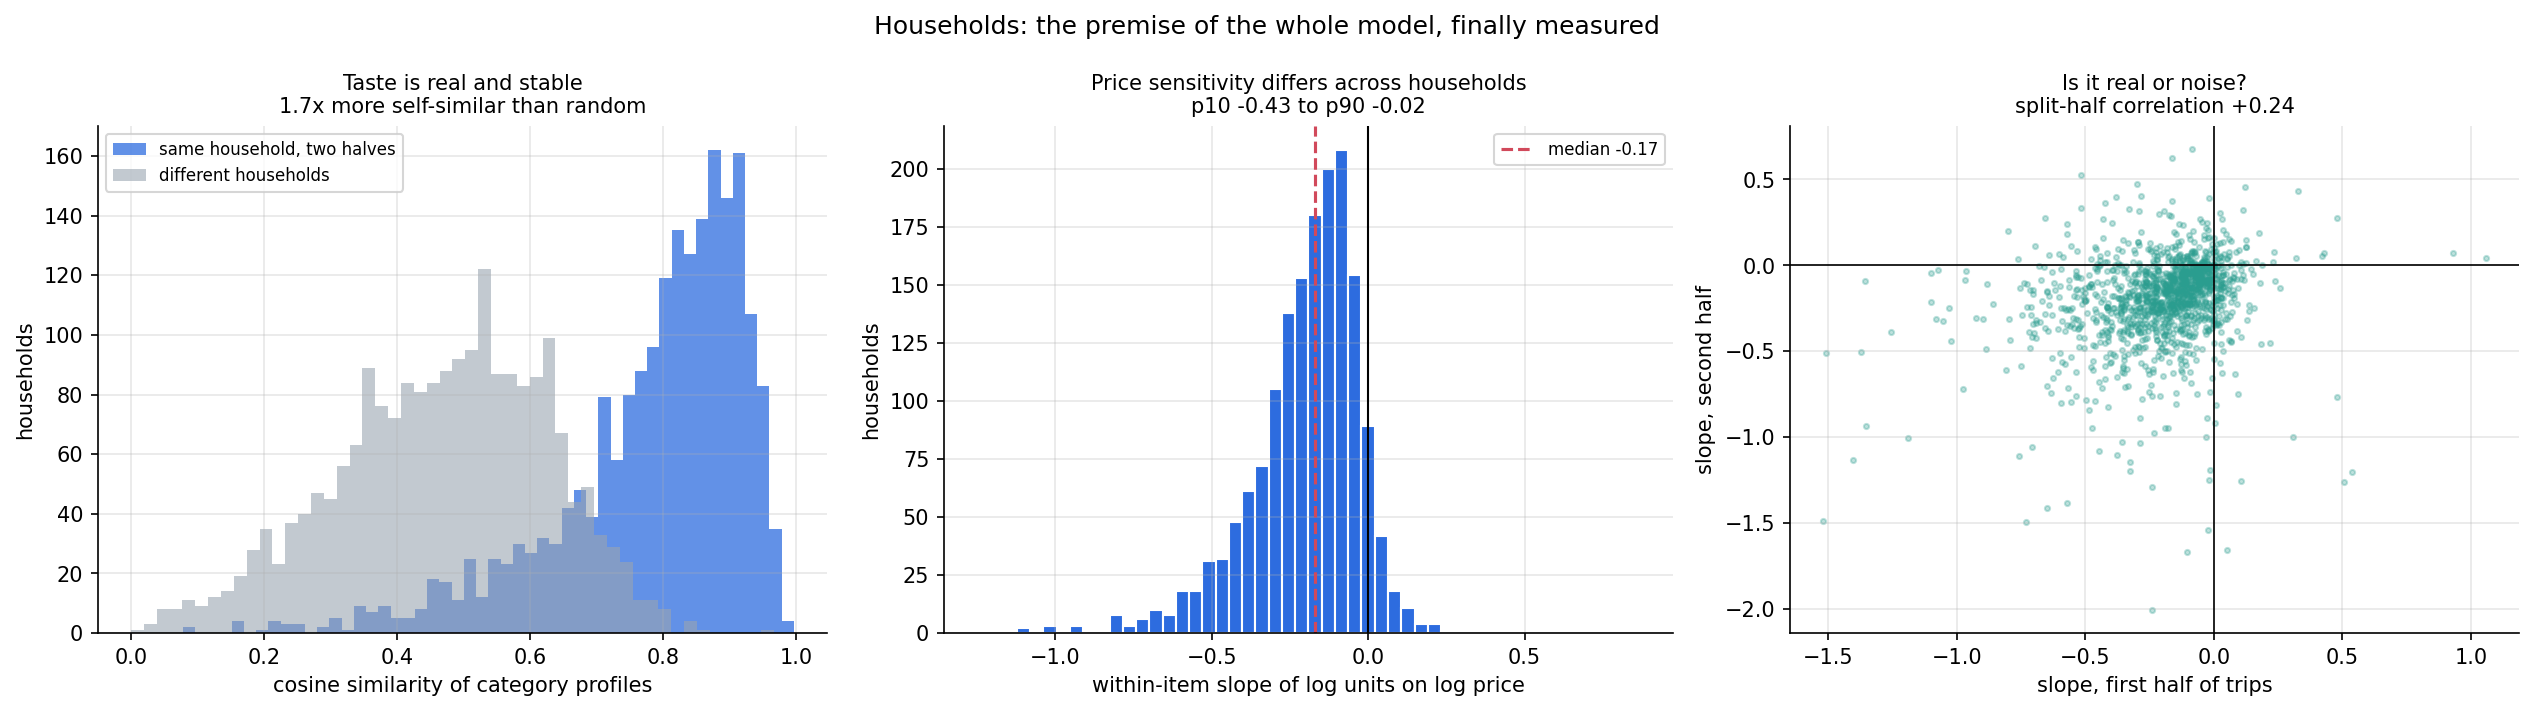
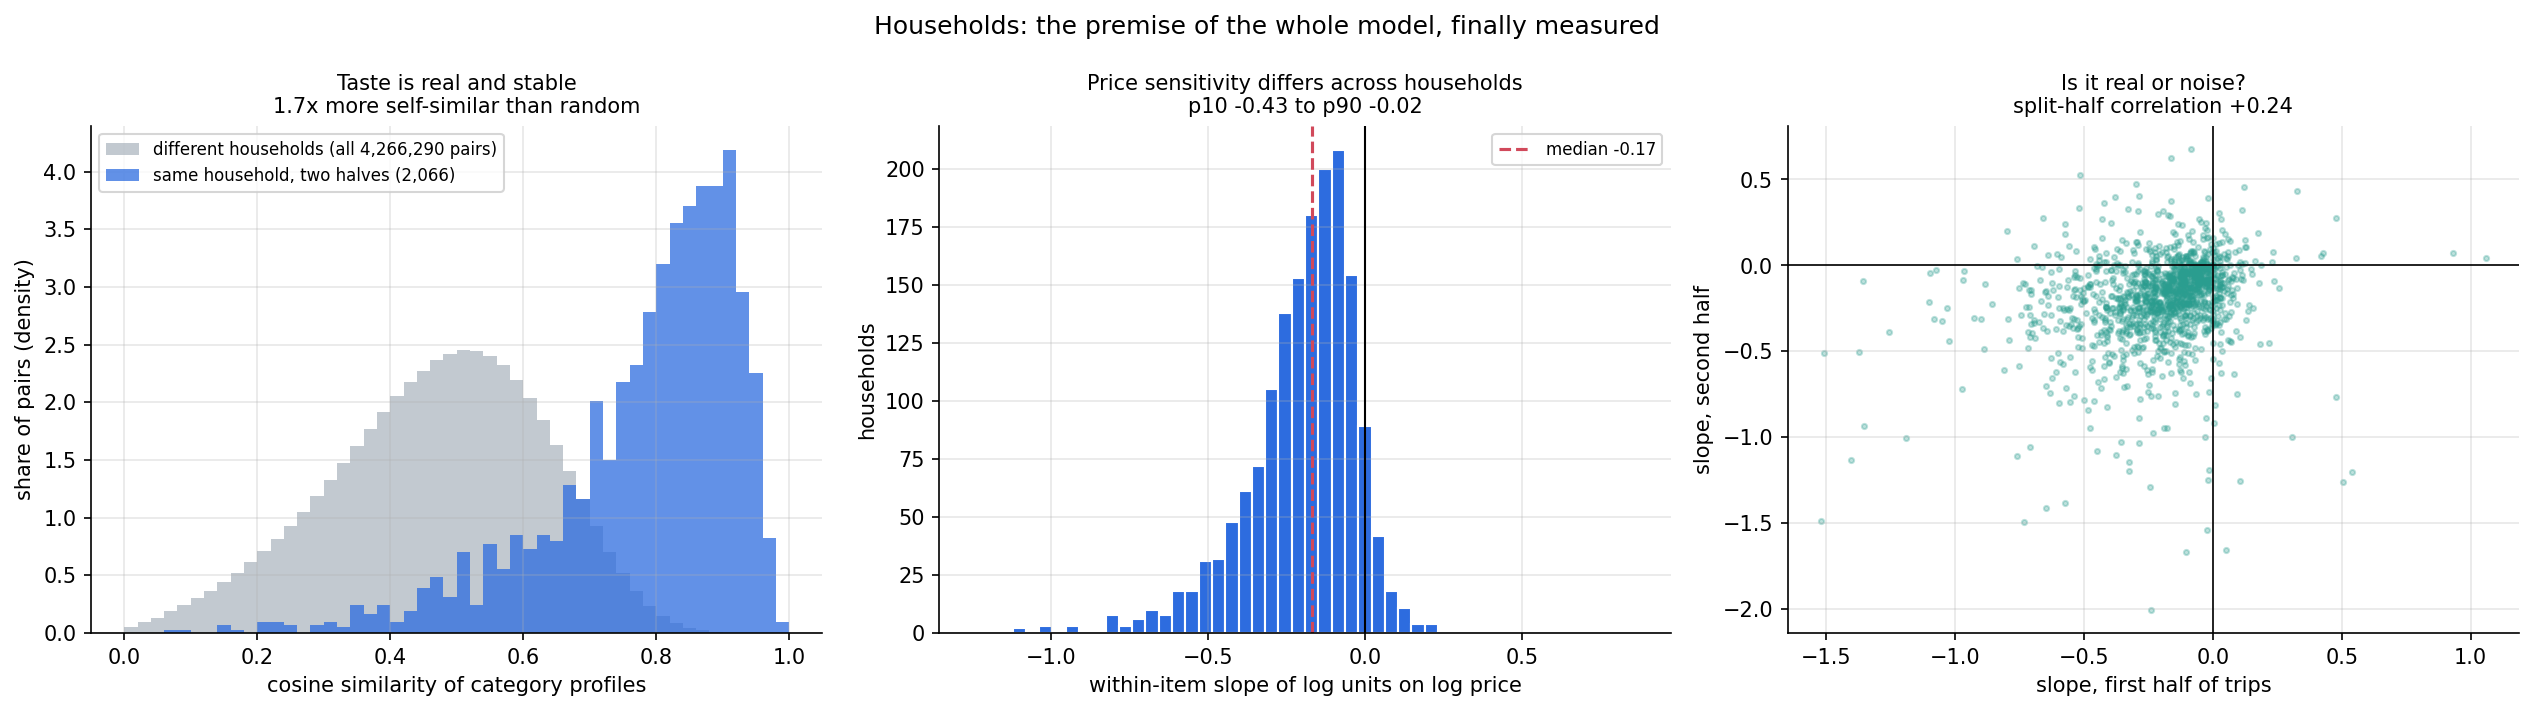
Households: compute the taste baseline exhaustively, and diagnose the slope noise
The stranger baseline in 7.1 was one random pairing of households, so the
reported number depended on the seed -- over 200 seeds the mean ranged 0.4654
to 0.4765 and the ratio 1.645x to 1.684x.  There is no reason to sample when
every pair can be computed: G = P1 @ P2.T holds all 4,266,290 cross-household
pairs, the diagonal holds the self-pairs.  Baseline 0.4710, ratio 1.66x.

"Own beats random" changed meaning as a result -- it now asks whether a
household beats its average against all 2,065 strangers rather than the single
stranger it happened to draw, and 97.6% do.

The two histograms were also drawn with separate bin edges, so grey bars were
5.3% wider than blue ones and the heights were not comparable.  Shared edges
now, and density since one curve holds 2,066 values and the other 4.27M.

Section 7.2 reported a split-half correlation of +0.236 without saying why it
was that low.  Measure it: 18.6% of qualifying rows come from a (household,
item) pair whose price never moved, and 16.3% of pairs have no price variation
at all.  Splitting households by how much price movement they had, the slope sd
falls from 0.226 to 0.129 and the share of positive slopes from 11.5% to 3.5%.
Much of the apparent spread across households is bad measurement, not
difference.

diff --git a/scripts/30_household_eda.py b/scripts/30_household_eda.py
@@ -108,16 +108,25 @@ def main(a):
     P1, P2 = P1[users], P2[users]
     keep = (P1.sum(1) > 0) & (P2.sum(1) > 0)
     P1, P2 = P1[keep], P2[keep]
-    own = (P1 * P2).sum(1)
-    rng = np.random.default_rng(a.seed)
-    perm = rng.permutation(len(P1))
-    other = (P1 * P2[perm]).sum(1)
+    # The comparison baseline used to be ONE random pairing of households, which made
+    # the reported number depend on the seed: over 200 seeds the mean ranged 0.4654 to
+    # 0.4765 and the headline ratio 1.645x to 1.684x.  Small, but there is no reason to
+    # sample -- every household-vs-household pair can simply be computed.  G holds all
+    # of them: G[i, j] is household i's first half against household j's second half.
+    G = P1 @ P2.T
+    n = len(P1)
+    own = np.diag(G).copy()                       # i against itself
+    off = ~np.eye(n, dtype=bool)
+    other = G[off]                                # all n*(n-1) different-household pairs
+    # "does my own past beat a stranger's?" -- averaged over every stranger, not one
+    row_mean_other = (G.sum(1) - np.diag(G)) / (n - 1)
     r["taste"] = {
-        "households": int(len(P1)),
+        "households": int(n),
+        "cross_household_pairs": int(n * (n - 1)),
         "self_similarity_across_time": float(own.mean()),
         "cross_household_similarity": float(other.mean()),
         "ratio": float(own.mean() / max(other.mean(), 1e-9)),
-        "share_self_beats_random": float((own > other).mean()),
+        "share_self_beats_random": float((own > row_mean_other).mean()),
     }
     rt = r["taste"]
     log("")
@@ -153,8 +162,34 @@ def main(a):
         return (agg.xy / agg.xx).rename(None)
 
     s_all = hh_slopes(bk, a.min_obs)
+    # the halves hold about half the purchases each, so they use half the threshold
     s1 = hh_slopes(first, a.min_obs // 2)
     s2 = hh_slopes(second, a.min_obs // 2)
+
+    # How much price movement does a household actually have to learn from?  The
+    # denominator of the slope is sum (logp - mean_hi logp)^2.  When an item's price
+    # never moved for that household, the pair contributes nothing to it, and dividing
+    # by a near-zero denominator turns accidents into large slopes.  Measuring this
+    # explains the modest split-half correlation below.
+    gq = bk[bk.groupby(["user_id", "item_id"]).item_id.transform("size") >= 3].copy()
+    kq = ["user_id", "item_id"]
+    gq["xd"] = gq.lp - gq.groupby(kq).lp.transform("mean")
+    gq["yd"] = gq.lu - gq.groupby(kq).lu.transform("mean")
+    xx = gq.assign(xx=gq.xd ** 2).groupby("user_id").xx.sum()
+    xx = xx[s_all.index]
+    thin, thick = s_all[xx <= xx.median()], s_all[xx > xx.median()]
+    r["price_variation_available"] = {
+        "qualifying_rows": int(len(gq)),
+        "household_item_pairs": int(gq.groupby(kq).ngroups),
+        "share_rows_price_never_moved": float((gq.xd.abs() < 0.01).mean()),
+        "share_pairs_zero_price_variation": float(
+            gq.groupby(kq).xd.apply(lambda s: (s.abs() < 1e-9).all()).mean()),
+        "median_sum_xd2": float(xx.median()),
+        "thin_half": {"sd_of_slopes": float(thin.std()),
+                      "share_positive": float((thin > 0).mean())},
+        "thick_half": {"sd_of_slopes": float(thick.std()),
+                       "share_positive": float((thick > 0).mean())},
+    }
     both = pd.concat([s1.rename("h1"), s2.rename("h2")], axis=1).dropna()
     split_corr = float(both.h1.corr(both.h2)) if len(both) > 20 else np.nan
     r["price_sensitivity"] = {
@@ -166,12 +201,20 @@ def main(a):
         "households_in_split_half": int(len(both)),
     }
     rp = r["price_sensitivity"]
+    rv = r["price_variation_available"]
     log("")
     log("2. price sensitivity across households (units on price, within item)")
     log(f"   {rp['households_estimated']:,} households: median {rp['median_slope']:+.3f}, "
         f"p10 {rp['p10']:+.3f}, p90 {rp['p90']:+.3f}, sd {rp['sd']:.3f}")
     log(f"   split-half correlation {split_corr:+.3f} on {len(both):,} households "
         f"-> {'REAL heterogeneity' if split_corr > 0.1 else 'mostly NOISE'}")
+    log(f"   price movement available: {rv['share_rows_price_never_moved']:.1%} of rows "
+        f"come from a (household,item) pair whose price never moved; "
+        f"{rv['share_pairs_zero_price_variation']:.1%} of pairs have none at all")
+    log(f"   households with LITTLE price movement: slope sd "
+        f"{rv['thin_half']['sd_of_slopes']:.3f}, {rv['thin_half']['share_positive']:.1%} positive")
+    log(f"   households with MUCH   price movement: slope sd "
+        f"{rv['thick_half']['sd_of_slopes']:.3f}, {rv['thick_half']['share_positive']:.1%} positive")
     s_all.rename("slope").to_frame().to_csv(
         os.path.join(OUT, "household_eda_price_slopes.csv"))
 
@@ -272,10 +315,15 @@ def main(a):
     # ================================================================= figures
     fig, axes = plt.subplots(1, 3, figsize=(17, 4.8))
     ax = axes[0]
-    ax.hist(own, bins=50, alpha=.75, color=PAL["blue"], label="same household, two halves")
-    ax.hist(other, bins=50, alpha=.6, color=PAL["grey"], label="different households")
+    # one set of bin edges for both, and density so 2,066 self-pairs and 4.27M
+    # cross-pairs are on the same footing
+    edges = np.linspace(0, 1, 51)
+    ax.hist(other, bins=edges, density=True, alpha=.6, color=PAL["grey"],
+            label=f"different households (all {len(other):,} pairs)")
+    ax.hist(own, bins=edges, density=True, alpha=.75, color=PAL["blue"],
+            label=f"same household, two halves ({len(own):,})")
     style(ax, f"Taste is real and stable\n{rt['ratio']:.1f}x more self-similar than random",
-          "cosine similarity of category profiles", "households")
+          "cosine similarity of category profiles", "share of pairs (density)")
     ax.legend(fontsize=8)
 
     ax = axes[1]
